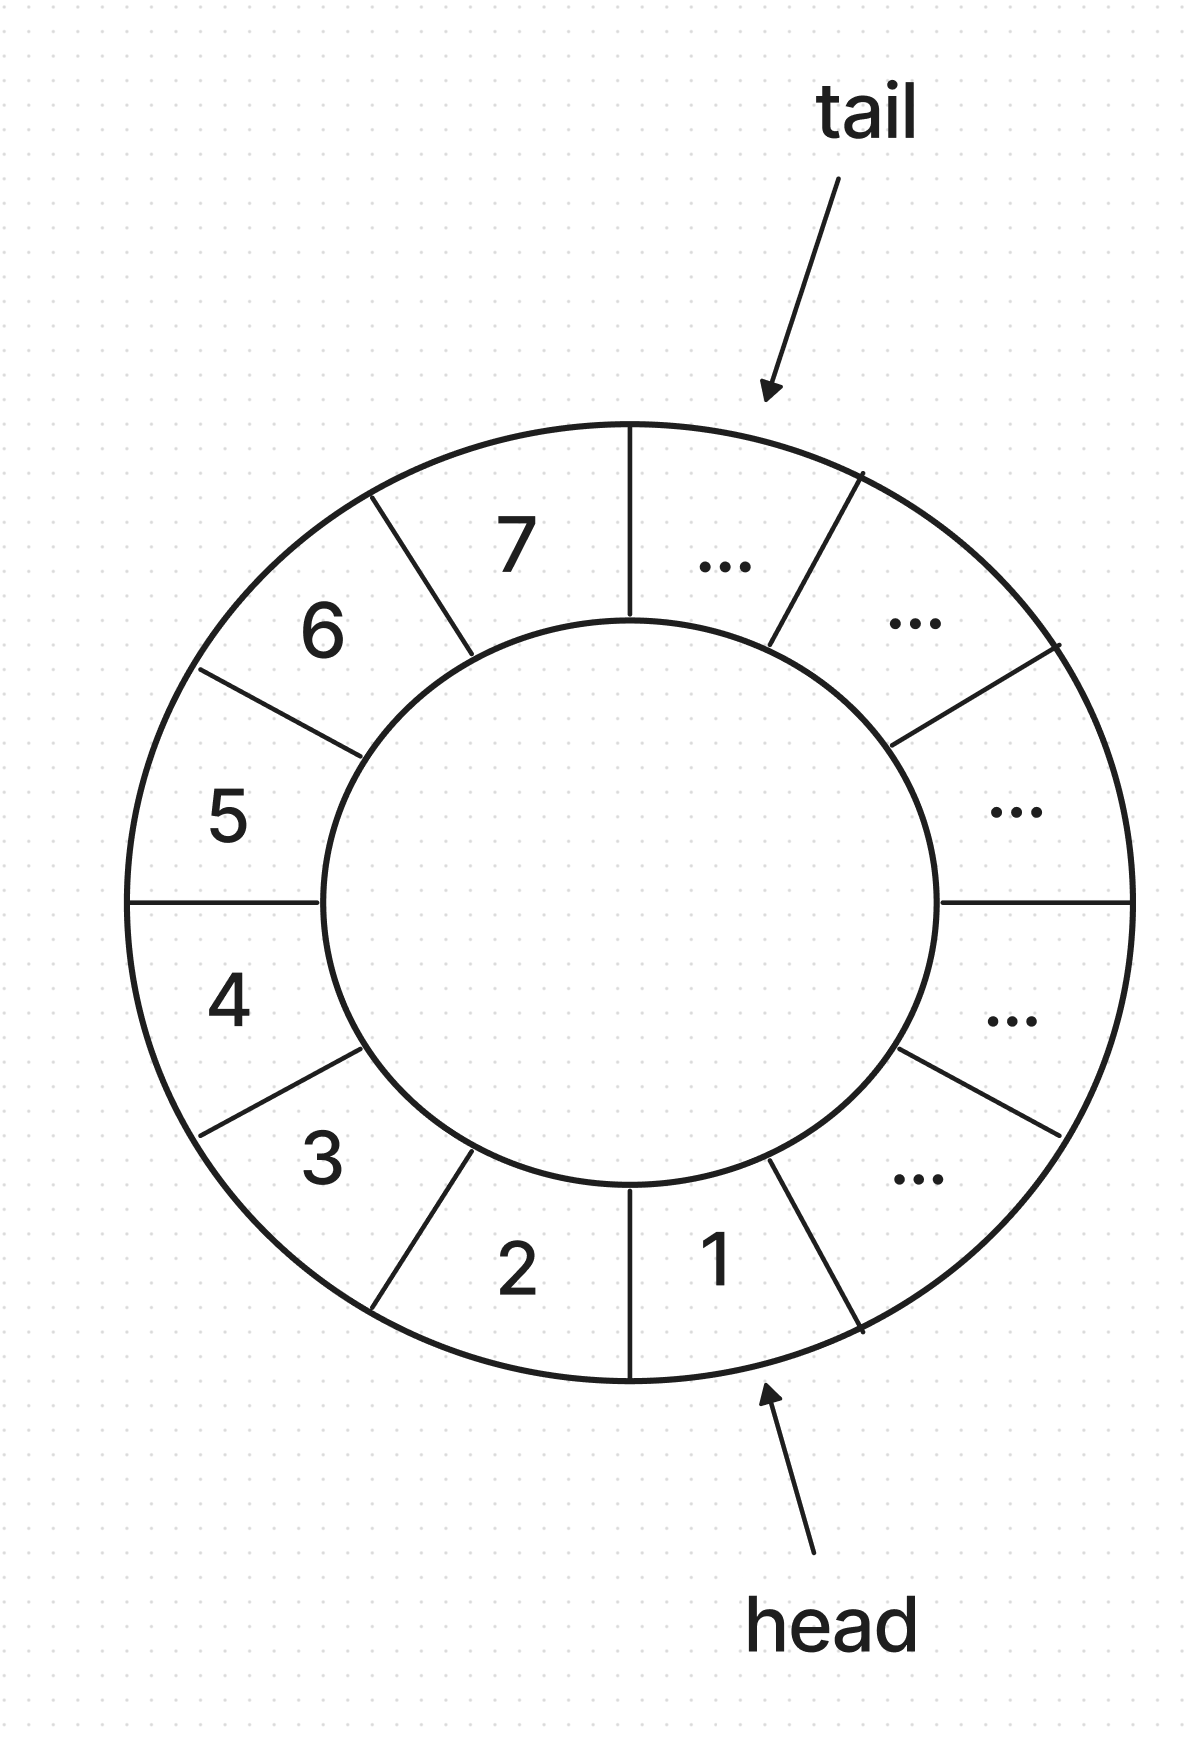
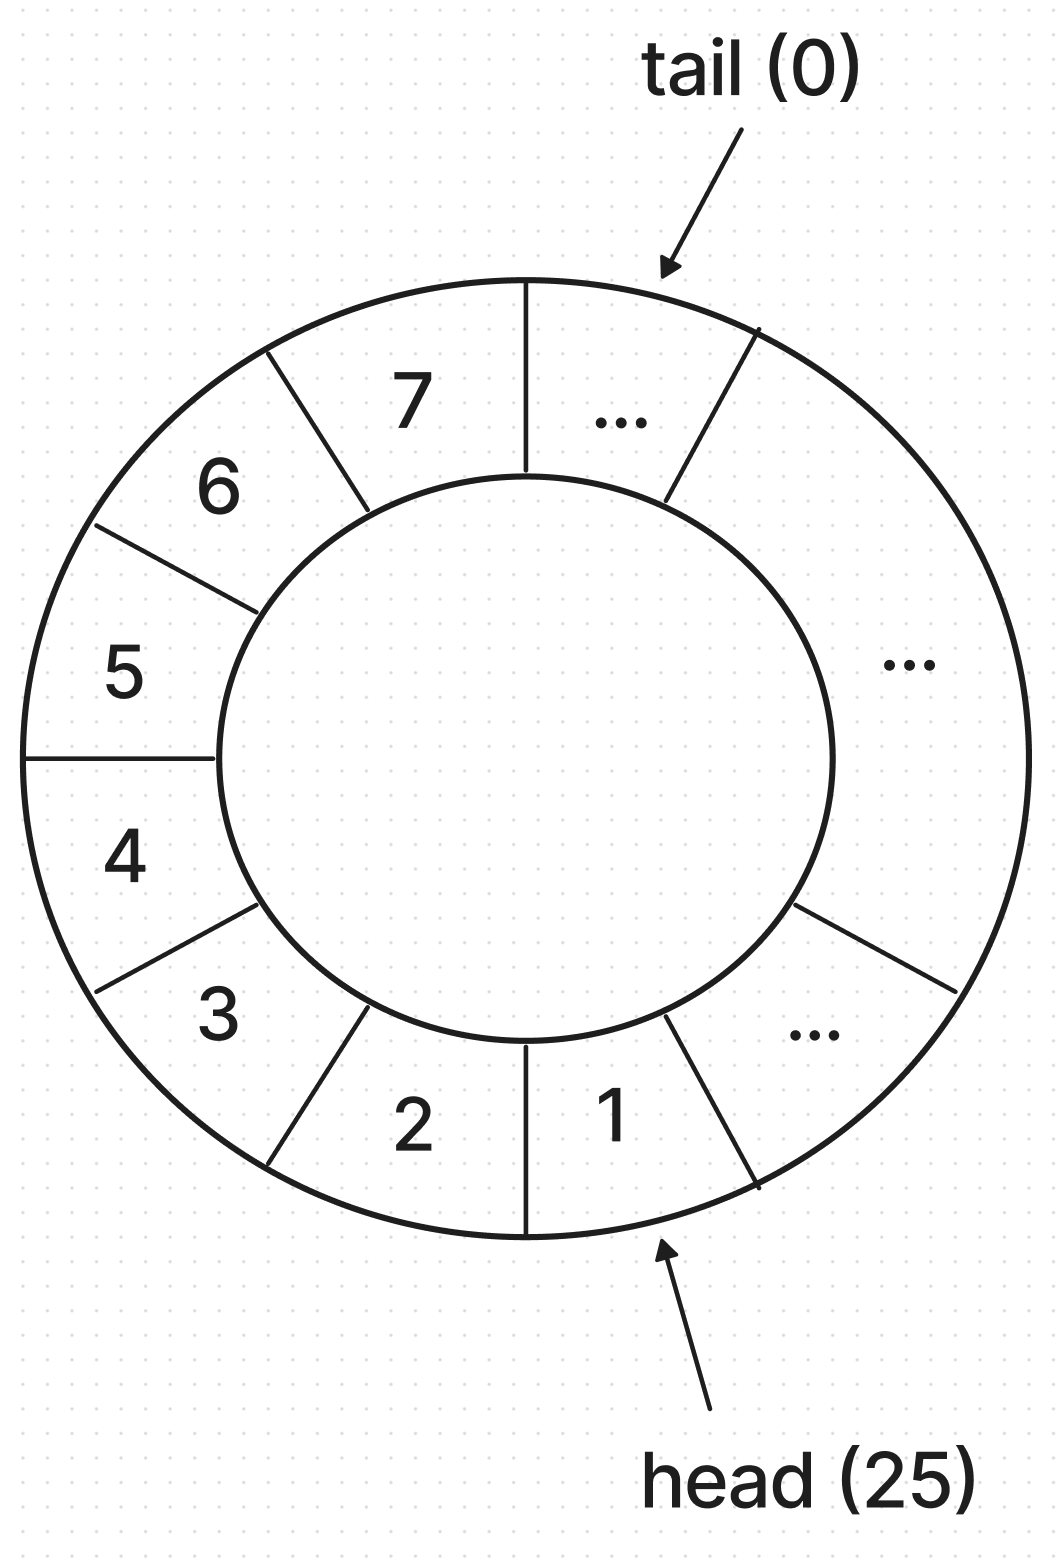
done: push_swap_3

diff --git a/_posts/42cursus/tag-push-swap/2023-10-19-push-swap-3.md b/_posts/42cursus/tag-push-swap/2023-10-19-push-swap-3.md
@@ -90,9 +90,10 @@ t_deque a = {
 
 ## 구조체의 정보 반환
 
-> getter를 getter라 부르지 못하고... 
+> getter를 getter라 부르지 못하고... (C길동)
 
 - 구조체의 정보를 반환받기 위한 함수들이다. 구조체 멤버 변수에 접근하여 정보를 반환받는다.
+
 ### (1) int size(t_deque *a)
 ~~~c
 int	size(t_deque *a)
@@ -150,4 +151,28 @@ int	back(t_deque *a)
 
 - 그림을 그려보자.
 
-![circular queue 2](/assets/img/push_swap/circular-queue2.png){:.lead width="400"} 
+<center><img src="/assets/img/push_swap/circular-queue2.png" width="50%" height="50%"></center>
+
+- 이렇게 보니 확실히 배열의 틀에서 벗어난 것 같다. 배열의 arr[0]이나 배열의 arr[len - 1]은 이 그림에서 아무런 의미를 가지고 있지 않다. **우리는 다만 arr[head]에서 arr[tail - 1]만을 스택으로 간주한다.** tail이 0인 경우는 예외 사항으로, 이 경우에만 `tail - 1`은 -1이 아니라 `capacity - 1`이 된다.
+
+- 여기서 8을 `push_back()`해본다면 어떨까? 아래를 보자.
+~~~c
+  "t_deque* a의 정보"
+  arr = {8, -, -, ..., 1, 2, 3, 4, 5, 6, 7} // len, capacity = 32
+           tail(1)    head(25)          a[31]         
+ 
+  capacity = 32;
+  head = 25; // arr[25] = 1;
+  tail = 1; // a[capacity - 1] = 8;
+
+  ** 추상화된 stack a -> {1, 2, 3, 4, 5, 6, 7, 8} **
+  스택 a의 size = 8 // {1, 2, 3, 4, 5, 6, 7, 8}의 8개
+
+  int b = back(a); // arr[tail - 1] = 8;
+~~~
+
+- 바로 이거다. tail을 하나 더하고, tail 바로 앞의 원소를 8로 변경하고, 스택의 size를 하나 늘렸다. 그림을 보자.
+
+<center><img src="/assets/img/push_swap/circular-queue3.png" width="50%" height="50%"></center>
+
+- 7 다음이 8이다. 배열 상에서는 7 다음의 원소가 없기 때문에 7을 스택의 끝으로 착각할 수 있지만, 우리의 추상화된 배열은 마치 원형 큐와 같이 동작하기 때문에 7 다음은 없는게 아니라 8이 된다. 기존 배열의 틀에서 벗어나자. a[capacity - 1] 다음은 a[0]이다. 그리고 우리는 arr[head]부터 arr[tail - 1]만을 스택으로 간주한다.

diff --git a/_posts/42cursus/tag-push-swap/2023-10-16-push-swap-2.md b/_posts/42cursus/tag-push-swap/2023-10-16-push-swap-2.md
@@ -17,7 +17,7 @@ tags: pushswap
 
 - [push_swap (1)](https://espebaum.github.io/42cursus/push-swap-1.html)에서 말한 바 있듯이 배열로 push swap을 진행하기 위해서는, 그 배열이 마치 **원형 큐(Circular Queue)나 덱(Deque)**과 같이 움직여야 하며, **가변하는 size의 정보를 담을 수 있어야** 한다.
 
-![circular queue 1](/assets/img/push_swap/circular-queue1.png)
+<center><img src="/assets/img/push_swap/circular-queue1.png" width="50%" height="50%"></center>
 
 - 이런 새로운 형태의 배열을 구현하는 것에 있어 가장 중요한 것은 **추상화**라고 한다. 나는 추상화 프로그래밍이라는 개념을 이때 처음 알게 되었다. 이것이 말로 설명하기 참 오묘한데, 지금부터 시작해보도록 하겠다.
 
